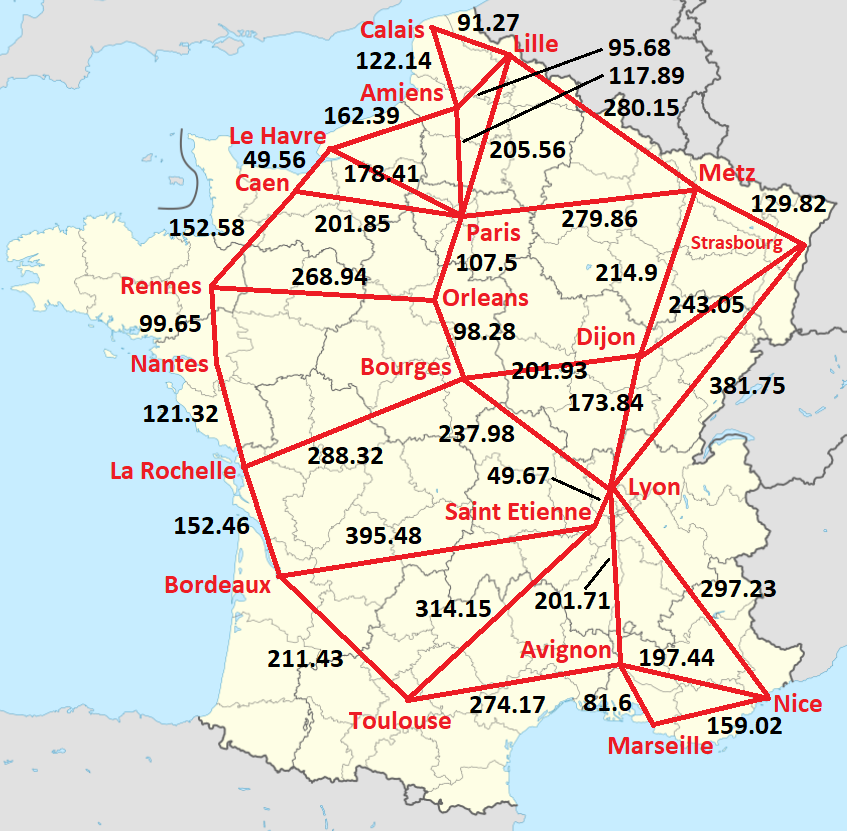
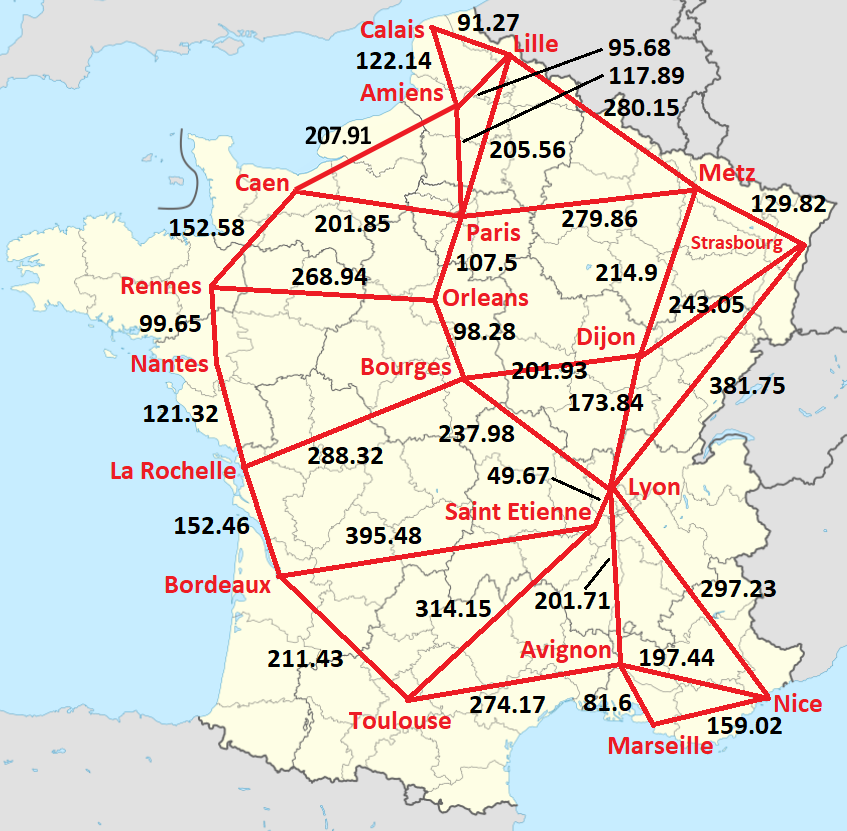
Resending corrected files

Changed region(s): [[0.2456, 0.1203, 0.5525, 0.2708]]

diff --git a/a-estrela.py b/a-estrela.py
@@ -1,7 +1,7 @@
 #destination: MAR
 #TO-DO: Run 'pip install opencv-python' on CMD
 import cv2
-image = cv2.imread('grafo_franca(pins).png')
+image = cv2.imread('.\grafo_franca(pins).png')
 
 #list of adjacences (COORDINATES)
 list_adj = [[["CAL","LIL"] , [432,28,508,56]] # [["A","B"], [Xa, Ya, Xb, Yb]]
@@ -33,9 +33,7 @@ list_adj = [[["CAL","LIL"] , [432,28,508,56]] # [["A","B"], [Xa, Ya, Xb, Yb]]
 ,[["REN", "ORL"] , [213,285,433,297]]
 ,[["REN", "CAE"] , [213,285,294,192]]
 ,[["CAE", "PAR"] , [294,192,462,218]]
-,[["CAE", "LEH"] , [294,192,331,149]]
-,[["LEH", "PAR"] , [331,149,462,218]]
-,[["LEH", "AMI"] , [331,149,455,105]]
+,[["CAE", "AMI"] , [294,192,455,105]]
 ,[["AMI", "PAR"] , [455,105,462,218]]
 ,[["PAR", "ORL"] , [462,218,433,297]]
 ,[["ORL", "BOU"] , [433,297,459,377]]
@@ -47,60 +45,68 @@ list_adj = [[["CAL","LIL"] , [432,28,508,56]] # [["A","B"], [Xa, Ya, Xb, Yb]]
 
 CAL =  {"name":"CAL", "adj":["AMI", "LIL"], "dist":[122.14, 91.27]} #CAL
 LIL =  {"name":"LIL", "adj":["CAL", "AMI", "PAR", "MET"], "dist":[91.27,95.68,205.56,280.15]}#LIL
-AMI =  {"name":"AMI", "adj":["CAL", "LIL", "PAR", "LEH"], "dist":[122.14,95.68,117.89,162.39]}#AMI
-Le_Havre =  {"name":"LEH", "adj":["AMI", "PAR", "CAE"], "dist":[162.39,178.41,49.56]}#LEH
-CAE =  {"name":"CAE", "adj":["LEH", "PAR", "REN"], "dist":[49.56,201.85,152.58]}#CAE
+AMI =  {"name":"AMI", "adj":["CAL", "LIL", "PAR", "CAE"], "dist":[122.14,95.68,117.89,207.91]}#AMI
+CAE =  {"name":"CAE", "adj":["AMI", "PAR", "REN"], "dist":[207.91,201.85,152.58]}#CAE
 MET =  {"name":"MET", "adj":["LIL", "PAR", "DIJ", "STR"], "dist":[280.15,279.86,214.9,129.82]}#MET
-PAR = {"name":"PAR", "adj":["AMI", "LIL", "MET", "ORL", "CAE", "LEH"], "dist":[117.89, 205.56, 279.86,107.5,201.85,178.41]}#PAR
+PAR = {"name":"PAR", "adj":["AMI", "LIL", "MET", "ORL", "CAE"], "dist":[117.89, 205.56, 279.86,107.5,201.85]}#PAR
 REN =  {"name":"REN", "adj":["CAE", "ORL", "NAN"], "dist":[152.58, 268.94, 99.65]}#REN
 ORL =  {"name":"ORL", "adj":["PAR", "REN", "BOU"], "dist":[107.5, 268.94,98.28]}#ORL
 STR =  {"name":"STR", "adj":["MET", "DIJ", "LYO"], "dist":[129.82,243.05,381.75]}#STR
 NAN =  {"name":"NAN", "adj":["REN", "LAR"], "dist":[99.65,121.32]}#NAN
 BOU = {"name":"BOU", "adj":["ORL", "DIJ", "LYO", "LAR"], "dist":[98.28, 201.93, 237.98,288.32]}#BOU
 DIJ = {"name":"DIJ", "adj":["MET", "STR", "LYO", "BOU"], "dist":[214.9,243.05,173.84,201.93]}#DIJ
-La_Rochelle = {"name":"LAR", "adj":["NAN", "BOR"], "dist":[121.32,152.46]}#LAR
+LAR = {"name":"LAR", "adj":["NAN", "BOR"], "dist":[121.32,152.46]}#LAR
 BOR = {"name":"BOR", "adj":["LAR", "STE", "TOU"], "dist":[152.46,395.48,211.43]}#BOR
-St_Etienne = {"name":"STE", "adj":["BOR", "TOU", "LYO"], "dist":[395.48,314.15,49.67]}#STE
+STE = {"name":"STE", "adj":["BOR", "TOU", "LYO"], "dist":[395.48,314.15,49.67]}#STE
 LYO = {"name":"LYO", "adj":["BOU", "DIJ", "STR", "NIC", "AVI", "STE"], "dist":[237.98,173.84,381.75,297.23,201.71,49.67]} #LYO
 TOU = {"name":"TOU", "adj":["BOR", "STE", "AVI"], "dist":[211.43, 314.15,274.17]}#TOU
 AVI = {"name":"AVI", "adj":["TOU", "LYO", "NIC", "MAR"], "dist":[274.17,201.71,197.44,81.6]}#AVI
 NIC = {"name":"NIC", "adj":["MAR", "AVI", "LYO"], "dist":[159.02, 197.44, 297.23]}#NIC
 MAR = {"name":"MAR", "adj":["AVI", "NIC"], "dist":[81.6, 159.02]}#MAR
 
-nodes = {"CAL": CAL, "LIL": LIL, "AMI": AMI, "LEH": Le_Havre,
+nodes = {"CAL": CAL, "LIL": LIL, "AMI": AMI,
 "CAE": CAE, "MET": MET, "PAR": PAR, "REN": REN, "ORL": ORL, "STR":STR, "NAN":NAN,
-"BOU":BOU, "DIJ": DIJ, "LAR":La_Rochelle, "BOR":BOR, "STE":St_Etienne,"LYO": LYO, "TOU":TOU,
+"BOU":BOU, "DIJ": DIJ, "LAR":LAR, "BOR":BOR, "STE":STE,"LYO": LYO, "TOU":TOU,
 "AVI":AVI,"NIC":NIC,"MAR":MAR}
 
-heuristic = {"CAL":890.59, "LIL":832.45, "AMI":768.69, "LEH":796.98, "CAE":787.53,"MET":649.03,"PAR":659.4,"REN":764.26,
+heuristic = {"CAL":890.59, "LIL":832.45, "AMI":768.69, "CAE":787.53,"MET":649.03,"PAR":659.4,"REN":764.26,
 "ORL":577.16,"STR":613.55,"NAN":696.16,"BOU":475.15,"DIJ":441.84,"LAR":615.94,"BOR":501.12,"STE":251.17,"LYO":274.93,
 "TOU":318.32,"AVI":81.6,"NIC":159.02,"MAR":0} #distance from each node to the destination in straight line
 curr_adj = [] #adjacent nodes of the currrent node
 f_ns = [] #list of the evaluation functions for each adjacent of the current node
 dist_acc = 0 #distance accumulated from the first node to the current
 path = [] #list of the cities that compound the shortest path
+to_visit = [] #list of the nodes to visit in each iteration
 nodes_adj = [] #pair of nodes that compound an adjacence
 
 stop = False
-origin = "CAL"
-curr = nodes[origin] #the first node
+
+origin = input("Type the origin: ") #CAL, LIL, ...
+dest = nodes["MAR"] #destination
+
+curr = nodes[origin] #the first node (and the current node for each iteration)
 path.append(origin)
 curr_adj = curr["adj"]
-dest = nodes["MAR"] #destination
 nodes_adj.append(origin) 
 
-print("Origin: " + origin)
-print("********************************")
+print("\nOrigin: " + origin)
+print("********************************\n")
+if(curr["name"] == "MAR"):
+    print("You typed the destination")
+    stop = True
 while not stop:
     i = 0
     for node in curr_adj:
-         f_ns.append(heuristic[node]+(curr["dist"][i]+dist_acc))
-         i += 1
-    for node in curr_adj:
+        if(not(node in path)): #if the node was not visited
+            f_ns.append(heuristic[node]+(curr["dist"][i]+dist_acc))
+            to_visit.append(node)
+        i += 1
+    for node in to_visit:
          if(node == dest["name"]):
              stop = True
-             print("The shorter path was found")
-    print(curr_adj)
+             print("**The destination was found**")
+             break
+    print(to_visit)
     print(f_ns)
     aux = f_ns[0]
     index_less = 0 #the index of the current less value of f_ns
@@ -110,8 +116,8 @@ while not stop:
             aux = value
             index_less = i
         i += 1
-    dist_acc += curr["dist"][index_less]
-    curr = nodes[curr_adj[index_less]]
+    dist_acc += curr["dist"][curr["adj"].index(to_visit[index_less])]
+    curr = nodes[to_visit[index_less]]
     nodes_adj.append(curr["name"])
     for pair in list_adj: 
         if((nodes_adj[0] in pair[0]) and (nodes_adj[1] in pair[0])):
@@ -119,6 +125,7 @@ while not stop:
     nodes_adj.pop(0)
     curr_adj = curr["adj"]
     f_ns.clear()
+    to_visit.clear()
     path.append(curr["name"])
     print("f(n) = " + str(aux) + " -> " + curr["name"])
     print("---------------------------------")
